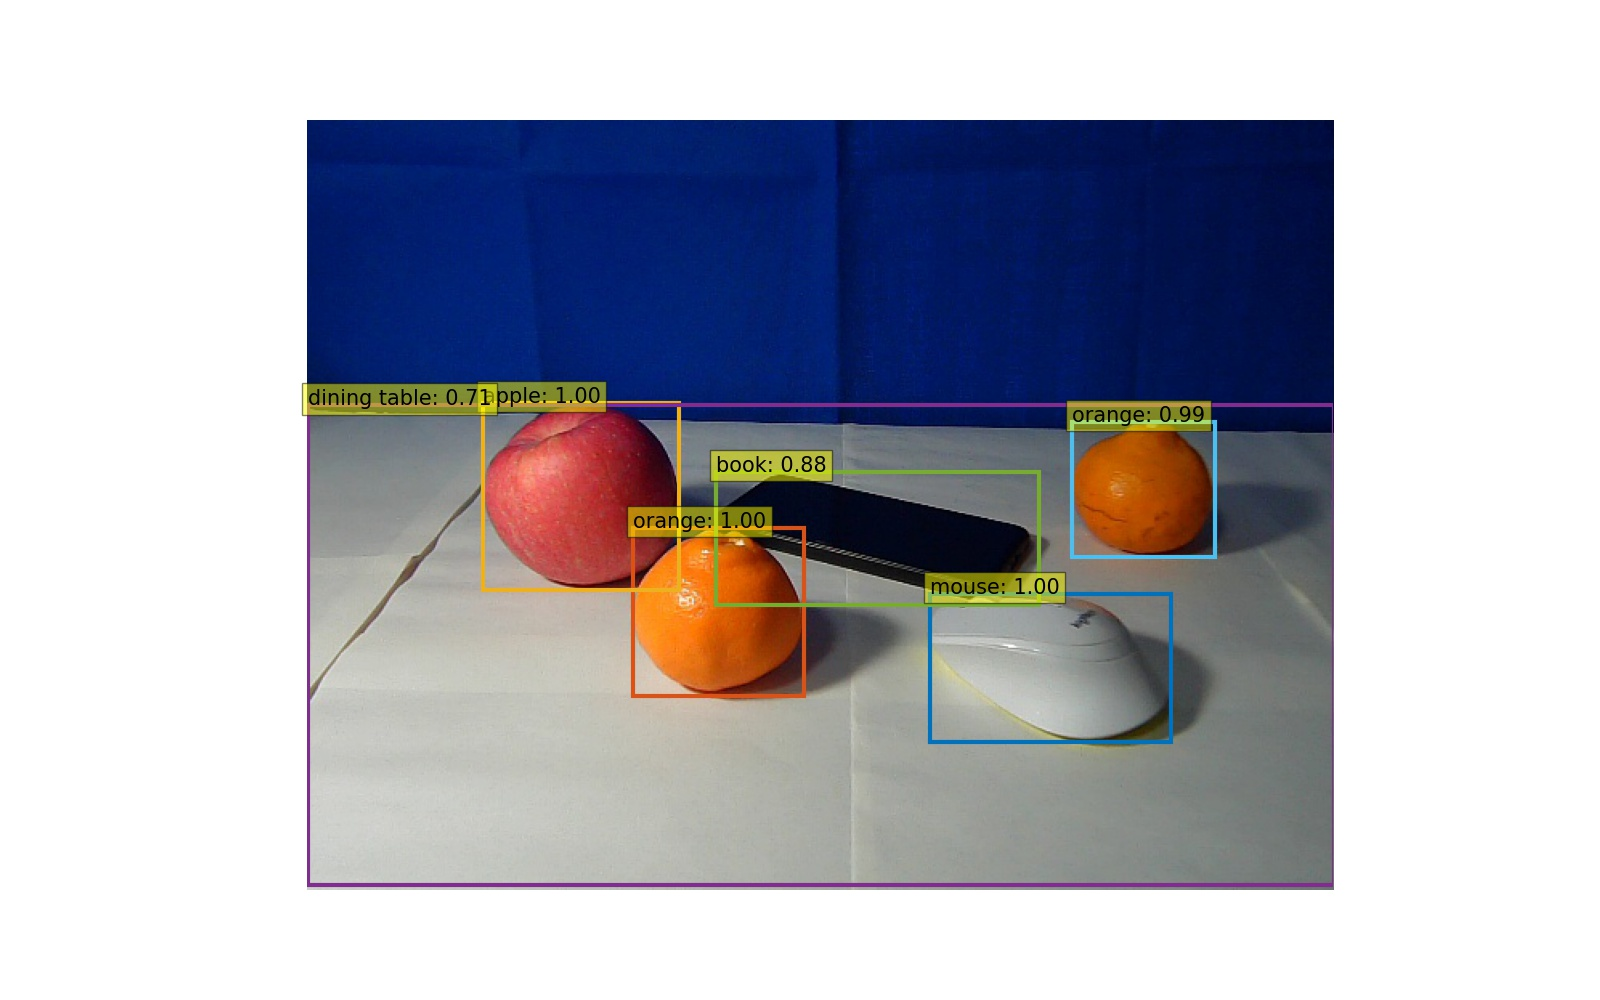
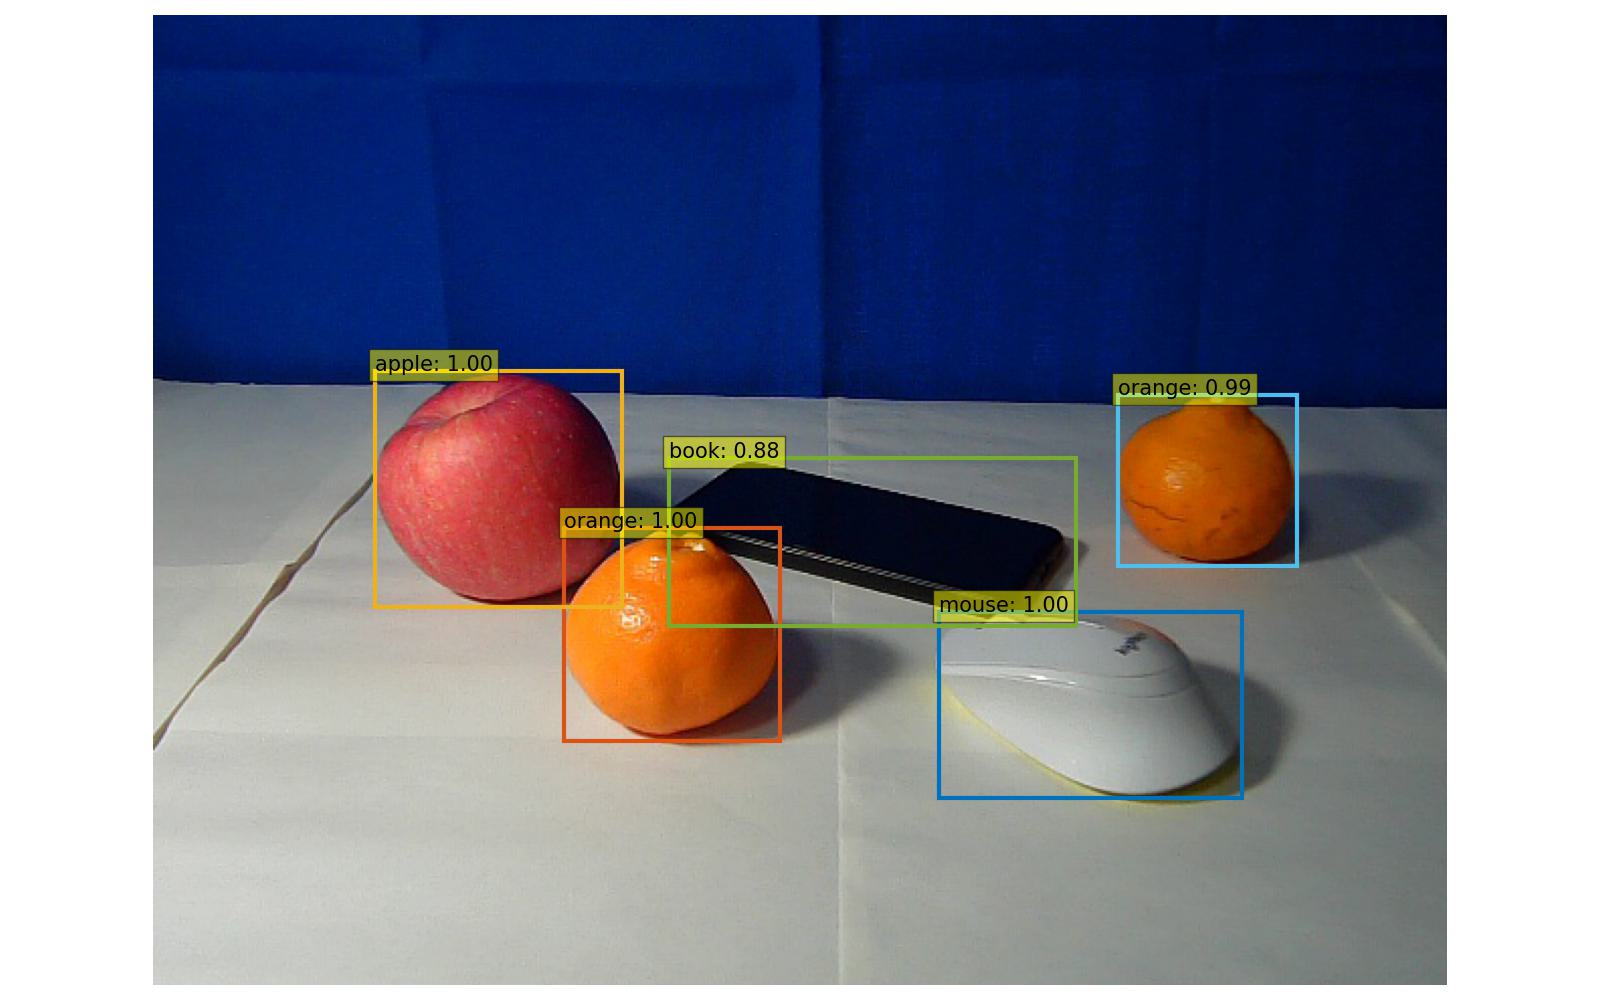
finish detr rgbd, modify some code

diff --git a/utils/detection_utils.py b/utils/detection_utils.py
@@ -1,24 +1,11 @@
-import math
-from PIL import Image
-import requests
+import cv2
 import matplotlib.pyplot as plt
-#%config InlineBackend.figure_format = 'retina'
-import ipywidgets as widgets
-from IPython.display import display, clear_output
+import numpy as np
 import torch
-from torch import nn
-from torchvision.models import resnet50
-import torchvision.models as models
-import torchvision.transforms as T
-torch.set_grad_enabled(False);
 
-#settings
-num=5
-im_path_base='data/demo/detection/detr/input/detection_'
-save_path_base='data/demo/detection/detr/_result/detection_'
-savingOutputImage = True
+COLORS = [[0.000, 0.447, 0.741], [0.850, 0.325, 0.098], [0.929, 0.694, 0.125],
+          [0.494, 0.184, 0.556], [0.466, 0.674, 0.188], [0.301, 0.745, 0.933]]
 
-# COCO classes
 CLASSES = [
     'N/A', 'person', 'bicycle', 'car', 'motorcycle', 'airplane', 'bus',
     'train', 'truck', 'boat', 'traffic light', 'fire hydrant', 'N/A',
@@ -36,18 +23,6 @@ CLASSES = [
     'toothbrush'
 ]
 
-# colors for visualization
-COLORS = [[0.000, 0.447, 0.741], [0.850, 0.325, 0.098], [0.929, 0.694, 0.125],
-          [0.494, 0.184, 0.556], [0.466, 0.674, 0.188], [0.301, 0.745, 0.933]]
-
-# standard PyTorch mean-std input image normalization
-transform = T.Compose([
-    T.Resize(800),
-    T.ToTensor(),
-    T.Normalize([0.485, 0.456, 0.406], [0.229, 0.224, 0.225])
-])
-
-# for output bounding box post-processing
 def box_cxcywh_to_xyxy(x):
     x_c, y_c, w, h = x.unbind(1)
     b = [(x_c - 0.5 * w), (y_c - 0.5 * h),
@@ -60,8 +35,8 @@ def rescale_bboxes(out_bbox, size):
     b = b * torch.tensor([img_w, img_h, img_w, img_h], dtype=torch.float32)
     return b
 
-def plot_results(pil_img, prob, boxes, save_path):
-    plt.figure(figsize=(16,10))
+def plot_results(pil_img, prob, boxes, save_path, class_range:list=None, class_exclude:list=None, depth_file:str=None):
+    plt.figure(figsize=(16, 10))
     plt.imshow(pil_img)
     ax = plt.gca()
     colors = COLORS * 100
@@ -71,40 +46,40 @@ def plot_results(pil_img, prob, boxes, save_path):
             continue
         if (CLASSES[cl] == 'person' and p[cl]<0.9):
             continue
+        if class_range is not None and cl not in class_range:
+            continue
+        if class_exclude is not None and cl in class_exclude:
+            continue
+        inte_xy = label_choice(torch.Tensor([xmin, ymin, xmax, ymax]), np.asarray(pil_img), depth_file)
+        if inte_xy is None:
+            continue
         ax.add_patch(plt.Rectangle((xmin, ymin), xmax - xmin, ymax - ymin,
                                    fill=False, color=c, linewidth=3))
         text = f'{CLASSES[cl]}: {p[cl]:0.2f}'
         ax.text(xmin, ymin, text, fontsize=15,
                 bbox=dict(facecolor='yellow', alpha=0.5))
     plt.axis('off')
-    if savingOutputImage:
-        plt.savefig(save_path)
-    plt.show()
+    plt.tight_layout()
+    plt.savefig(save_path)
+    # plt.show()
 
-model = torch.hub.load('facebookresearch/detr:main', 'detr_resnet50', pretrained=True)
-model.eval();
+def label_choice(candidate:torch.Tensor, original_img:np.ndarray, depth_file:str=None):
+    if depth_file is None:
+        return candidate
+    depth_information = np.load(depth_file)
+    undistortion_border = original_img.sum(axis=2)
+    depth_information[undistortion_border == 0] = 0
 
-#url = 'http://images.cocodataset.org/val2017/000000039769.jpg'
-#im = Image.open(requests.get(url, stream=True).raw)
+    xstart = int(candidate[1])
+    xend = int(candidate[3])
+    ystart = int(candidate[0])
+    yend = int(candidate[2])
 
-
-for n in range(num):
-    im_path = (im_path_base+str(n)+'.jpg')
-    save_path=save_path_base+str(n)+'.jpg'
-    im = Image.open(im_path)
-
-    # mean-std normalize the input image (batch-size: 1)
-    img = transform(im).unsqueeze(0)
-
-    # propagate through the model
-    outputs = model(img)
-
-    # keep only predictions with 0.7+ confidence
-    probas = outputs['pred_logits'].softmax(-1)[0, :, :-1]
-    keep = probas.max(-1).values > 0.2
-
-    # convert boxes from [0; 1] to image scales
-    bboxes_scaled = rescale_bboxes(outputs['pred_boxes'][0, keep], im.size)
-
-    plot_results(im, probas[keep], bboxes_scaled, save_path)
-
+    bbox = depth_information[xstart:xend, ystart:yend]
+    sobel_bbox_x = cv2.Sobel(bbox, cv2.CV_64F, 1, 0)
+    sobel_bbox_y = cv2.Sobel(bbox, cv2.CV_64F, 0, 1)
+    gm = cv2.sqrt(sobel_bbox_x ** 2 + sobel_bbox_y ** 2)
+    if gm.max() < 20:
+        return None
+    else:
+        return candidate

diff --git a/detect_detr.py b/detect_detr.py
@@ -1,0 +1,88 @@
+import time
+import warnings
+from pathlib import Path
+
+import torch
+import torchvision.transforms as T
+from PIL import Image
+
+from utils import detection_utils
+
+
+@torch.inference_mode()
+def main():
+    # you can set the input and the output directory of your images here
+    image_root = "data/demo/detection/detr/input/"
+    output_path = "output/detection/detr/"
+
+    test_depth = False
+    depth_dir = "data/demo/detection/depth/input"
+    depth_file = "data/demo/detection/depth/input/demo-depth.npy"
+    depth_output_path = "output/detection/depth"
+
+    class_range = None
+    class_exclude = [67, ]
+
+    # the constant below is correspond to the model or result
+    # do not edit them unless you know what you are doing
+    refresh_output = True
+    warnings.filterwarnings('ignore')
+    print("=> initialization start.")
+    device = torch.device("cuda" if torch.cuda.is_available() else "cpu")
+    model = torch.hub.load('facebookresearch/detr:main', 'detr_resnet50', pretrained=True).to(device)
+    model.eval()
+
+    if test_depth:
+        image_root = depth_dir
+        output_path = depth_output_path
+    else:
+        depth_file = None
+
+    image_root = Path(image_root)
+    output_path = Path(output_path)
+    print("=> check path existence.")
+    if output_path.exists() is False:
+        output_path.mkdir(parents=True)
+        print("=> output path not exist. create a new one already.")
+    
+    if refresh_output:
+        for path in output_path.iterdir():
+            if path.is_file():
+                path.unlink()
+            else:
+                for subpath in path.iterdir():
+                    subpath.unlink()
+        print("=> clear history output successfully.")
+
+    transform = T.Compose([
+        T.Resize(800),
+        T.ToTensor(),
+        T.Normalize([0.485, 0.456, 0.406], [0.229, 0.224, 0.225])
+    ])
+    image_list = []
+    for path in image_root.iterdir():
+        if path.suffix == ".npy" and test_depth:
+            continue
+        elif path.suffix not in [".png", ".jpg"]:
+            print(f"=> file {str(path)} is not a valid format of image; it will be ignored.")
+        else:
+            image_list.append(path)
+    
+    for image in image_list:
+        save_path = str(output_path / image.stem) + ".jpg"
+        im = Image.open(str(image))
+        st = time.time()
+
+        img = transform(im).unsqueeze(0).to(device)
+        outputs = model(img)
+        probas = outputs['pred_logits'].softmax(-1)[0, :, :-1]
+        keep = probas.max(-1).values > 0.2
+
+        target_boxes = outputs['pred_boxes'][0, keep].cpu()
+        bboxes_scaled = detection_utils.rescale_bboxes(target_boxes, im.size)
+        detection_utils.plot_results(im, probas[keep], bboxes_scaled, save_path, class_range=class_range, class_exclude=class_exclude, depth_file=depth_file)
+        print(f"=> save result to {save_path}. time cost is {round(time.time() - st, 3)} seconds.")
+
+
+if __name__ == '__main__':
+    main()

diff --git a/detect_yolo.py b/detect_yolo.py
@@ -1,35 +1,13 @@
 from pathlib import Path
 
 import cv2
-import numpy as np
 import torch
 
 from models.common import DetectMultiBackend
 from utils.dataloaders import LoadImages
+from utils.detection_utils import label_choice
 from utils.general import Profile, non_max_suppression, scale_boxes, xyxy2xywh
 from utils.plots import Annotator, colors
-
-
-def label_choice(candidate:torch.Tensor, original_img:np.ndarray, depth_file:str=None):
-    if depth_file is None:
-        return candidate
-    depth_information = np.load(depth_file)
-    undistortion_border = original_img.sum(axis=2)
-    depth_information[undistortion_border == 0] = 0
-
-    xstart = int(candidate[1])
-    xend = int(candidate[3])
-    ystart = int(candidate[0])
-    yend = int(candidate[2])
-
-    bbox = depth_information[xstart:xend, ystart:yend]
-    sobel_bbox_x = cv2.Sobel(bbox, cv2.CV_64F, 1, 0)
-    sobel_bbox_y = cv2.Sobel(bbox, cv2.CV_64F, 0, 1)
-    gm = cv2.sqrt(sobel_bbox_x ** 2 + sobel_bbox_y ** 2)
-    if gm.max() < 20:
-        return -1
-    else:
-        return candidate
 
 
 @torch.inference_mode()
@@ -49,11 +27,17 @@ def main():
 
     source = "data/demo/detection/yolov5/input"
     
-    depth_dir = "data/demo/detection/yolov5/depth_input"
-    depth_file = "data/demo/detection/yolov5/depth_input/demo-depth.npy"
+    depth_dir = "data/demo/detection/depth/input"
+    depth_file = "data/demo/detection/depth/input/demo-depth.npy"
+    depth_save_dir = "output/detection/depth"
 
     # the constant below is correspond to the model or result
     # do not edit them unless you know what you are doing
+    if test_depth:
+        source = depth_dir
+        save_dir = depth_save_dir
+    else:
+        depth_file = None
     save_dir = Path(save_dir)
     print("=> check path existence.")
     if (save_dir / "labels").exists() is False:
@@ -68,11 +52,6 @@ def main():
                 for subpath in path.iterdir():
                     subpath.unlink()
         print("=> clear history output successfully.")
-    
-    if test_depth:
-        source = depth_dir
-    else:
-        depth_file = None
     
     device = torch.device("cuda" if torch.cuda.is_available() else "cpu")
     model = DetectMultiBackend(weights, device=device, dnn=False, data=data, fp16=False)

diff --git a/stereo_image.py b/stereo_image.py
@@ -14,8 +14,8 @@ from utils import stereo_util
 IMAGENET_MEAN = [0.485, 0.456, 0.406]
 IMAGENET_STD = [0.229, 0.224, 0.225]
 
-
-if __name__ == '__main__':
+@torch.inference_mode()
+def main():
     # you can set the image size and output path of the program here
     # for image pairs the program will automatically examine available pairs, just set the root path
     inference_size = [480, 640]
@@ -34,7 +34,7 @@ if __name__ == '__main__':
     torch.cuda.manual_seed(1107)
     np.random.seed(1107)
     torch.backends.cudnn.benchmark = True
-    device = torch.device("cuda")
+    device = torch.device("cuda" if torch.cuda.is_available() else "cpu")
     warnings.filterwarnings('ignore')
 
     output_path = Path(output_path)
@@ -109,4 +109,7 @@ if __name__ == '__main__':
 
         cv2.imwrite(save_name, disp)
         print(f"=> the result of pair {idx + 1} has been saved into {save_name}.")
-        print(f"=> time cost for pair {idx + 1} is {round(time.time() - start_time, 3)} seconds.")
+        print(f"=> time cost for pair {idx + 1} is {round(time.time() - start_time, 3)} seconds.")    
+
+if __name__ == '__main__':
+    main()

diff --git a/stereo_video.py b/stereo_video.py
@@ -13,7 +13,8 @@ from utils import stereo_util
 IMAGENET_MEAN = [0.485, 0.456, 0.406]
 IMAGENET_STD = [0.229, 0.224, 0.225]
 
-if __name__ == '__main__':
+@torch.inference_mode()
+def main():
     # you can set the image size and output path of the program here
     # for video pairs you are required to point out where left and right videos are
     inference_size = [480, 640]
@@ -33,7 +34,7 @@ if __name__ == '__main__':
     torch.cuda.manual_seed(1107)
     np.random.seed(1107)
     torch.backends.cudnn.benchmark = True
-    device = torch.device("cuda")
+    device = torch.device("cuda" if torch.cuda.is_available() else "cpu")
     left_src = Path(left_src)
     right_src = Path(right_src)
     assert left_src.exists() and right_src.exists()
@@ -122,3 +123,6 @@ if __name__ == '__main__':
         out.write(disp)
     
     print(f"=> the result of video pair has been saved into {save_name}.")
+
+if __name__ == '__main__':
+    main()

diff --git a/README.md b/README.md
@@ -87,17 +87,6 @@ Also, we have modified the code to better fit the project of our own. Similar to
 
 To get such results from **a code run**, just run `detect_yolo.py` in the root directory. The default model used by us is a COCO-128-class one, whose detailed information can be accessed in `data/coco128.yaml`. The part of the results are showed below.
 
-<style>
-.center 
-{
-  width: auto;
-  display: table;
-  margin-left: auto;
-  margin-right: auto;
-}
-</style>
-
-<p class="center">
 <table>
     <tr align="center">
         <td>original image</td>
@@ -112,13 +101,18 @@ To get such results from **a code run**, just run `detect_yolo.py` in the root d
         <td><img src="./data/demo/detection/yolov5/_result/detection_04.jpg" width=250></td>
     </tr>
 </table>
-</p>
 
 It can be seen that the algorithm has done a good job, for it does not predict anything wrong, and for it has pointed out all the object in the pictures **captured by our camera**. For the speed of the algorithm, the result can be got in **about 15~20 ms** per image.
 
-#### Algorithm 2. Cascade R-CNN
+#### Algorithm 2. DETR
 
-For two-stage object detection algorithm, `@Zhao` and `@Peng`
+For two-stage object detection algorithm, `@Peng` has made contributions to DETR algorithm embedding, and the Github Homepage for this is [here](https://github.com/facebookresearch/detr).
+
+<p align="middle">
+<img src="attachments/DETR-page.png" width=400>
+</p>
+
+To test the result of DETR algorithm on the images taken by our cameras, you can run `./detect_detr.py` and get your output in the `output/detection/detr/` folder.
 
 ### Task 2.2 Object Detection with Depth
 
